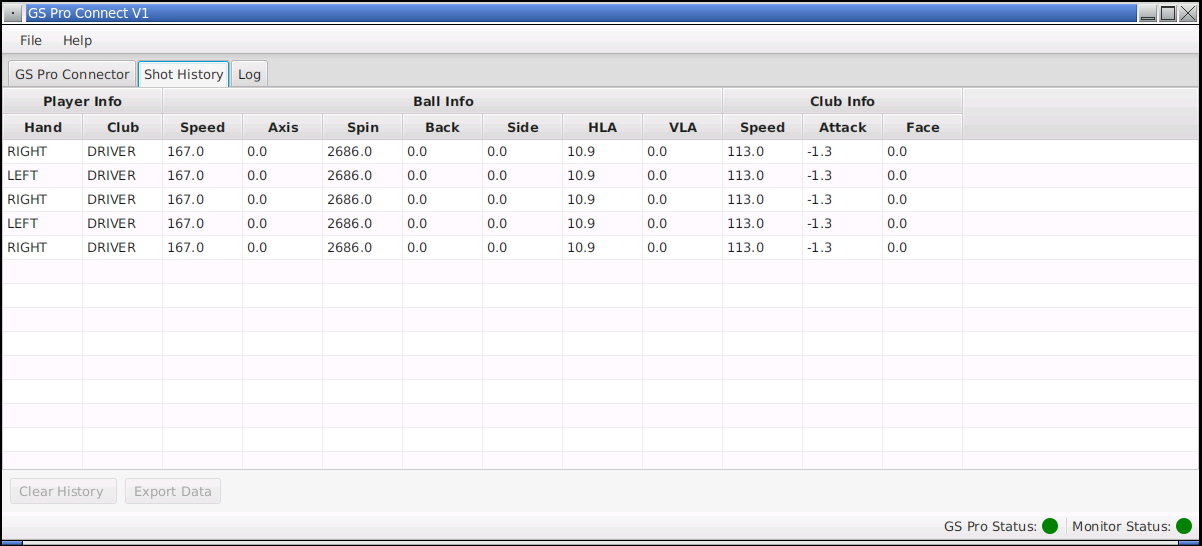
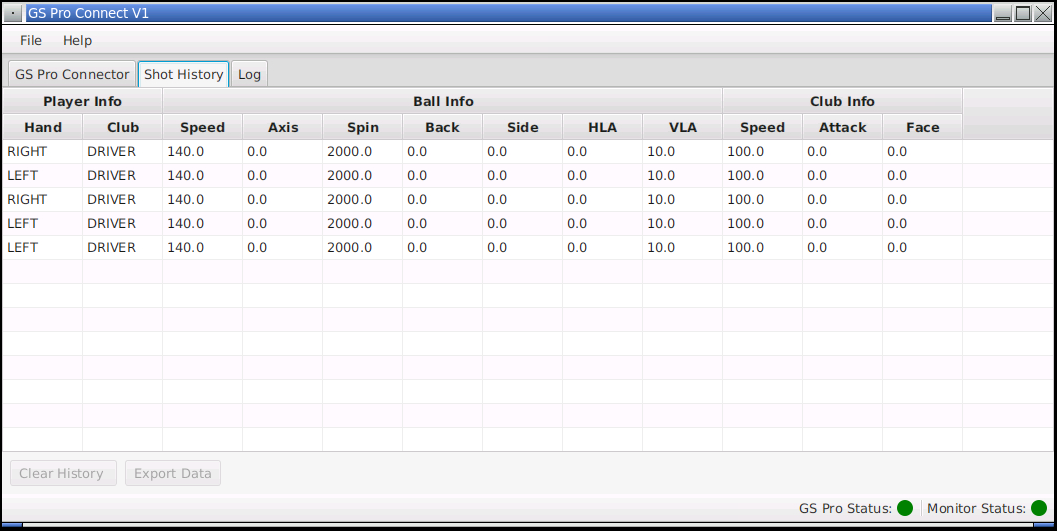
chore: continued adding tests

diff --git a/gspro-app/src/test/java/kjd/gspro/app/bridge/shot/ShotHistoryServiceTest.java b/gspro-app/src/test/java/kjd/gspro/app/bridge/shot/ShotHistoryServiceTest.java
@@ -1,34 +1,30 @@
 package kjd.gspro.app.bridge.shot;
 
 import static org.junit.jupiter.api.Assertions.assertEquals;
-import static org.mockito.Mockito.mock;
 
-import org.junit.jupiter.api.BeforeAll;
-import org.junit.jupiter.api.Test;
-import org.junit.jupiter.api.TestInstance;
-import org.junit.jupiter.api.TestInstance.Lifecycle;
+import org.junit.Before;
+import org.junit.Test;
 
 import kjd.gspro.app.bridge.gspro.GSProShotEvent;
 import kjd.gspro.app.monitor.form.FormLaunchPreset;
 import kjd.gspro.data.BallData;
 
-@TestInstance(Lifecycle.PER_CLASS)
 public class ShotHistoryServiceTest {
 
     ShotHistoryService service;
 
-    @BeforeAll
-    void setup() {
+    @Before
+    public void setup() {
         service = new ShotHistoryService();
     }
 
-    @Test 
-    void testInitialization_getShotHistory_empty() {
+    @Test
+    public void testInitialization_getShotHistory_empty() {
         assertEquals(service.getShotHistory().size(), 0);
     }
 
     @Test
-    void testOnLaunchMonitorShot_getShotHistory_added() {
+    public void testOnLaunchMonitorShot_getShotHistory_added() {
         BallData ballData = ballData(FormLaunchPreset.DRIVER);
         service.onLaunchMonitorShot(new GSProShotEvent(this, ballData));
         assertEquals(service.getShotHistory().size(), 1);

diff --git a/gspro-api/src/test/java/kjd/gspro/api/ConnectionTest.java b/gspro-api/src/test/java/kjd/gspro/api/ConnectionTest.java
@@ -74,17 +74,19 @@ public class ConnectionTest {
     }
 
     @Test
-    public void isConnected_disconnected() throws UnknownHostException, IOException {
+    public void isConnected_disconnected() throws UnknownHostException, IOException, InterruptedException {
         Socket socket = mock(Socket.class);                
 
         doReturn(socket).when(connection).createSocket(HOST, PORT);
         doReturn(mock(OutputStream.class)).when(socket).getOutputStream();
         doReturn(mock(InputStream.class)).when(socket).getInputStream();
 
-        connection.connect();
+        connection.start();
         connection.disconnect();
+        connection.join();
 
-        assertFalse(connection.isConnected());        
+        verify(listener, times(1)).onConnected(Status.connected());
+        verify(listener, times(1)).onDisconnect(Status.disconnected());
     }
 
     @Test 
@@ -97,7 +99,7 @@ public class ConnectionTest {
 
         connection.connect();
 
-        verify(listener, times(1)).onStatus(Status.connected());
+        verify(listener, times(1)).onConnected(Status.connected());
     }
 
     @Test(expected = UnknownHostException.class)

diff --git a/gspro-app/src/main/java/kjd/gspro/app/monitor/form/FormLaunchMonitorController.java b/gspro-app/src/main/java/kjd/gspro/app/monitor/form/FormLaunchMonitorController.java
@@ -128,8 +128,8 @@ public class FormLaunchMonitorController implements LaunchMonitorController, Ini
             .speed((float) ballSpeed.getValue())
             .spinAxis((float) ballSpinAxis.getValue())
             .totalSpin((float) ballTotalSpin.getValue())
-            .hla((float) ballLaunchAngle.getValue())
-            .vla((float) ballLaunchDirection.getValue())
+            .hla((float) ballLaunchDirection.getValue())
+            .vla((float) ballLaunchAngle.getValue())
             .carryDistance((float) ballCarryDistance.getValue())
             .build();
     }
